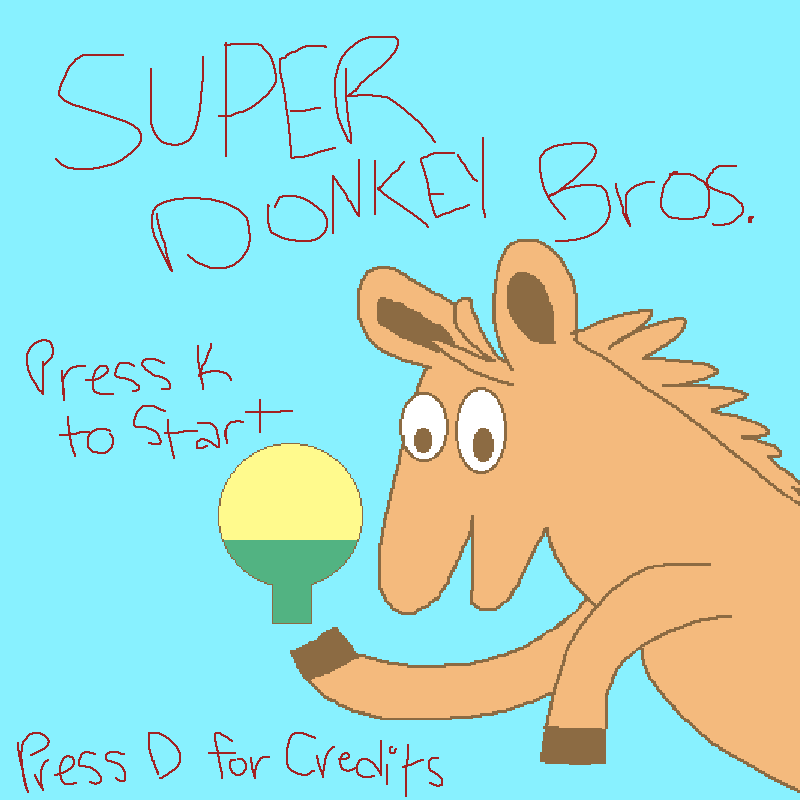
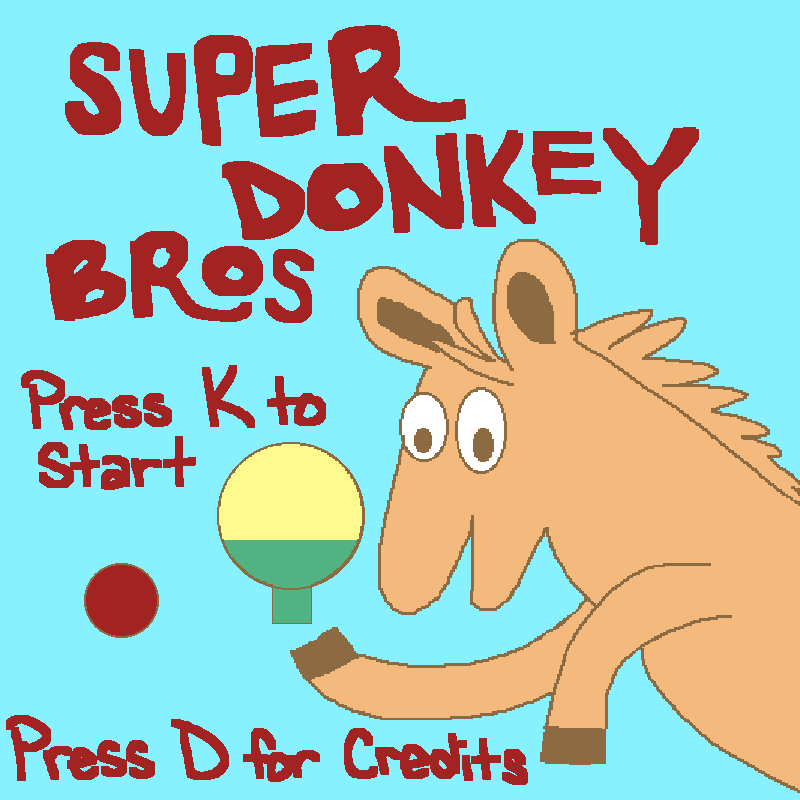
new world bounds && collisions fixed && hr update && new title :D

diff --git a/src/scenes/Play.js b/src/scenes/Play.js
@@ -4,7 +4,7 @@ class Play extends Phaser.Scene {
     }
 
     create() {
-        this.physics.world.setBounds(0, 200, 800, 520)
+        this.physics.world.setBounds(0, 210, 800, 530)
 
         this.add.rectangle(0, 0, game.config.width, game.config.height, 0x282d2f).setOrigin(0, 0)
 
@@ -113,14 +113,14 @@ class Play extends Phaser.Scene {
         // add donkeys
         this.donkeyRight = new Donkey(this, 625, game.config.height / 1.5, 'donkey').setFlipX(true).setOrigin(0, 0)
         this.physics.world.enable(this.donkeyRight)
-        this.donkeyRight.body.setSize(30, 80).setOffset(35, 35)
+        this.donkeyRight.body.setSize(30, 60).setOffset(35, 65)
 
         this.donkeyLeft = new Donkey(this, 30, game.config.height / 1.5, 'donkey').setOrigin(0, 0)
         this.physics.world.enable(this.donkeyLeft)
-        this.donkeyLeft.body.setSize(30, 80).setOffset(95, 35)  
+        this.donkeyLeft.body.setSize(30, 60).setOffset(95, 65)  
 
         // add ball (0xffb59e outline: 0xa80203)
-        this.ball = new Ball(this, 390, 359, 'ball').setOrigin(0, 0)
+        this.ball = new Ball(this, 378, 359, 'ball').setOrigin(0, 0)
         this.ball.body.setSize(8, 15).setOffset(22, 17)  
         this.ball.body.enable = false
 
@@ -178,30 +178,6 @@ class Play extends Phaser.Scene {
             this.highScore = this.pScore        
             this.score2Left.text = this.highScore   // update text
         }  
-
-        // vertical bounds for ball
-        if (!this.gameOver) {
-            if (this.ball.y < 200 && !this.ball.wallHitCooldown) {
-                this.ball.body.velocity.y = -1 * this.ball.body.velocity.y // reverse y velocity
-                // set cooldown flag
-                this.ball.wallHitCooldown = true 
-
-                // reset cooldown after 100ms to allow another bounce
-                this.time.delayedCall(100, () => {
-                    this.ball.wallHitCooldown = false
-                })
-            }
-            if (this.ball.y > 700 && !this.ball.wallHitCooldown) {
-                this.ball.body.velocity.y = -1 * this.ball.body.velocity.y // reverse y velocity
-                // set cooldown flag
-                this.ball.wallHitCooldown = true 
-
-                // reset cooldown after 100ms to allow another bounce
-                this.time.delayedCall(100, () => {
-                    this.ball.wallHitCooldown = false
-                })
-            }
-        }
 
         // if not game over play jump sound && make donkeys jump w/ key presses
         if (!this.gameOver && Phaser.Input.Keyboard.JustDown(keyD)) {  

diff --git a/src/scenes/Controls.js b/src/scenes/Controls.js
@@ -5,11 +5,13 @@ class Controls extends Phaser.Scene {
 
     create() {
         this.add.rectangle(0, 0, game.config.width, game.config.height, 0x282d2f).setOrigin(0, 0)
-        this.hello = this.add.text(175, 200, 'hi ' + game.playerName.join('') + '!', game.blueConfig)
+        this.hello = this.add.text(175, 100, 'hi ' + game.playerName.join('') + '!', game.blueConfig)
         this.hello.setStroke('#049da2', 10)
-        this.controls = this.add.text(175, 400, 'rapidly press D and K to', game.redConfig)
+        this.directions = this.add.text(155, 450, 'hit the ball back and forth', game.redConfig)
+        this.directions.setStroke('#a80203', 10)
+        this.controls = this.add.text(175, 300, 'rapidly press D and K to', game.redConfig)
         this.controls.setStroke('#a80203', 10)
-        this.controls = this.add.text(200, 450, 'make each donkey jump', game.redConfig)
+        this.controls = this.add.text(200, 350, 'make each donkey jump', game.redConfig)
         this.controls.setStroke('#a80203', 10)
         this.play = this.add.text(250, 600, 'press K to play!', game.redConfig)
         this.play.setStroke('#a80203', 10)

diff --git a/src/prefabs/Ball.js b/src/prefabs/Ball.js
@@ -7,12 +7,12 @@ class Ball extends Phaser.GameObjects.Sprite {
         scene.physics.add.existing(this)  
 
         //this.body.gravity.y = 500
-        this.body.setCollideWorldBounds(false)
+        this.body.setCollideWorldBounds(true)
         this.body.setImmovable(true)
 
         this.direction = Math.random() < 0.5 ? -1 : 1      // get random direction for start
         this.body.velocity.x = this.direction * 200
-        this.body.setBounce(1, 1)
+        this.body.setBounce(1)
     }
 
     update() {

diff --git a/src/prefabs/Donkey.js b/src/prefabs/Donkey.js
@@ -15,7 +15,7 @@ class Donkey extends Phaser.GameObjects.Sprite {
         // movement
         if (keyD.isDown || keyK.isDown) {
             //if (!this.body.onFloor()) { return }
-            this.body.setVelocityY(-1000)
+            this.body.setVelocityY(-900)
         }
     }
 

diff --git a/src/main.js b/src/main.js
@@ -1,6 +1,6 @@
 // Maddison Lobo
 // Super Donkey Bros
-// 15 hours
+// 20 hours
 
 // screen size and add scenes
 let config = {
